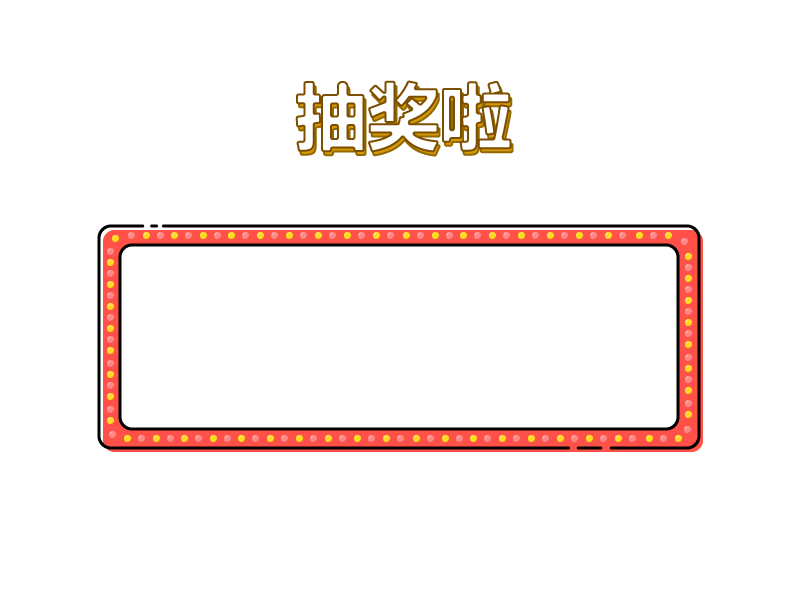
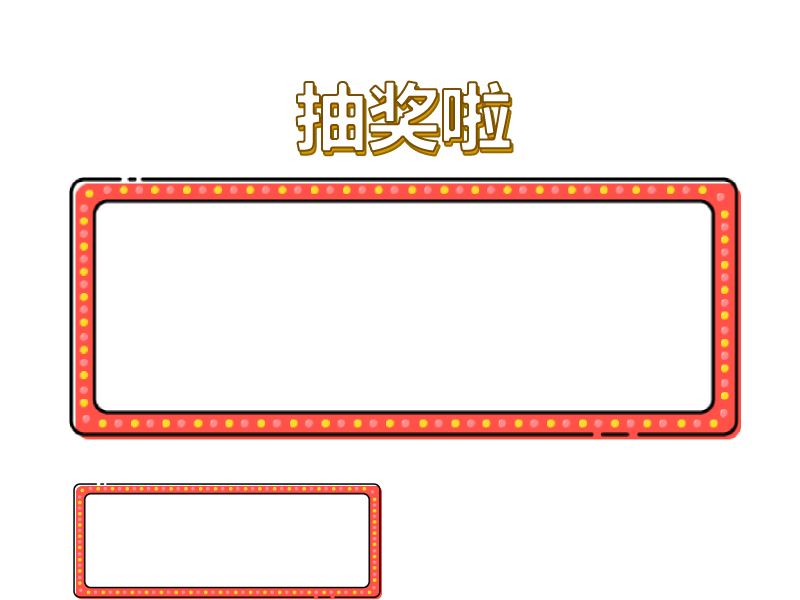
更新：界面调整

Changed region(s): [[0.0625, 0.27, 0.9375, 1.0]]

diff --git a/css/style.css b/css/style.css
@@ -88,8 +88,9 @@ html {
     position: absolute;
     left: 50%;
     width: 800px;
+    height: 400px;
     margin-left: -400px;
-    z-index: -100;
+    z-index: 103;
 }
 
 #iconDiv > span {
@@ -164,7 +165,7 @@ body {
 body > div {
     background: url(img/bg.png) no-repeat;
     position: absolute;
-    top: 50%;
+    top: 45%;
     left: 50%;
     margin: -300px auto auto -400px;
     width: 800px;
@@ -298,7 +299,8 @@ body > div > footer {
 body > div > footer > div {
     vertical-align: middle;
     background: rgba(0, 0, 0, 0);
-    margin-top: 10px;
+    margin-top: 0px;
+    margin-left: 350px;
 }
 
 
@@ -336,4 +338,10 @@ body > div > footer > div > button#btnReset {
     padding: 0;
     display: inline-block;
     font-size: 1rem;
+}
+
+#pageDevInfo{
+    position: fixed;
+    bottom: 0;
+    right: 0.5%;
 }

diff --git a/index.html b/index.html
@@ -50,6 +50,7 @@
                 src="css/img/icon/02.png"> </span><span><img src="css/img/icon/03.png"> </span><span><img
                 src="css/img/icon/04.png"> </span><span><img src="css/img/icon/05.png"> </span><span><img
                 src="css/img/icon/06.png"> </span></div>
+    <p id="pageDevInfo">Raytrontek@2024 Author:YouChenhui</p>
 </body>
 
 </html>

diff --git a/css/style.less b/css/style.less
@@ -14,7 +14,6 @@ body {
   text-align: center;
   > div {
     //display: table-cell;
-    background: url(img/bg.png) no-repeat;
     position: absolute;
     top: 50%;
     left: 50%;
